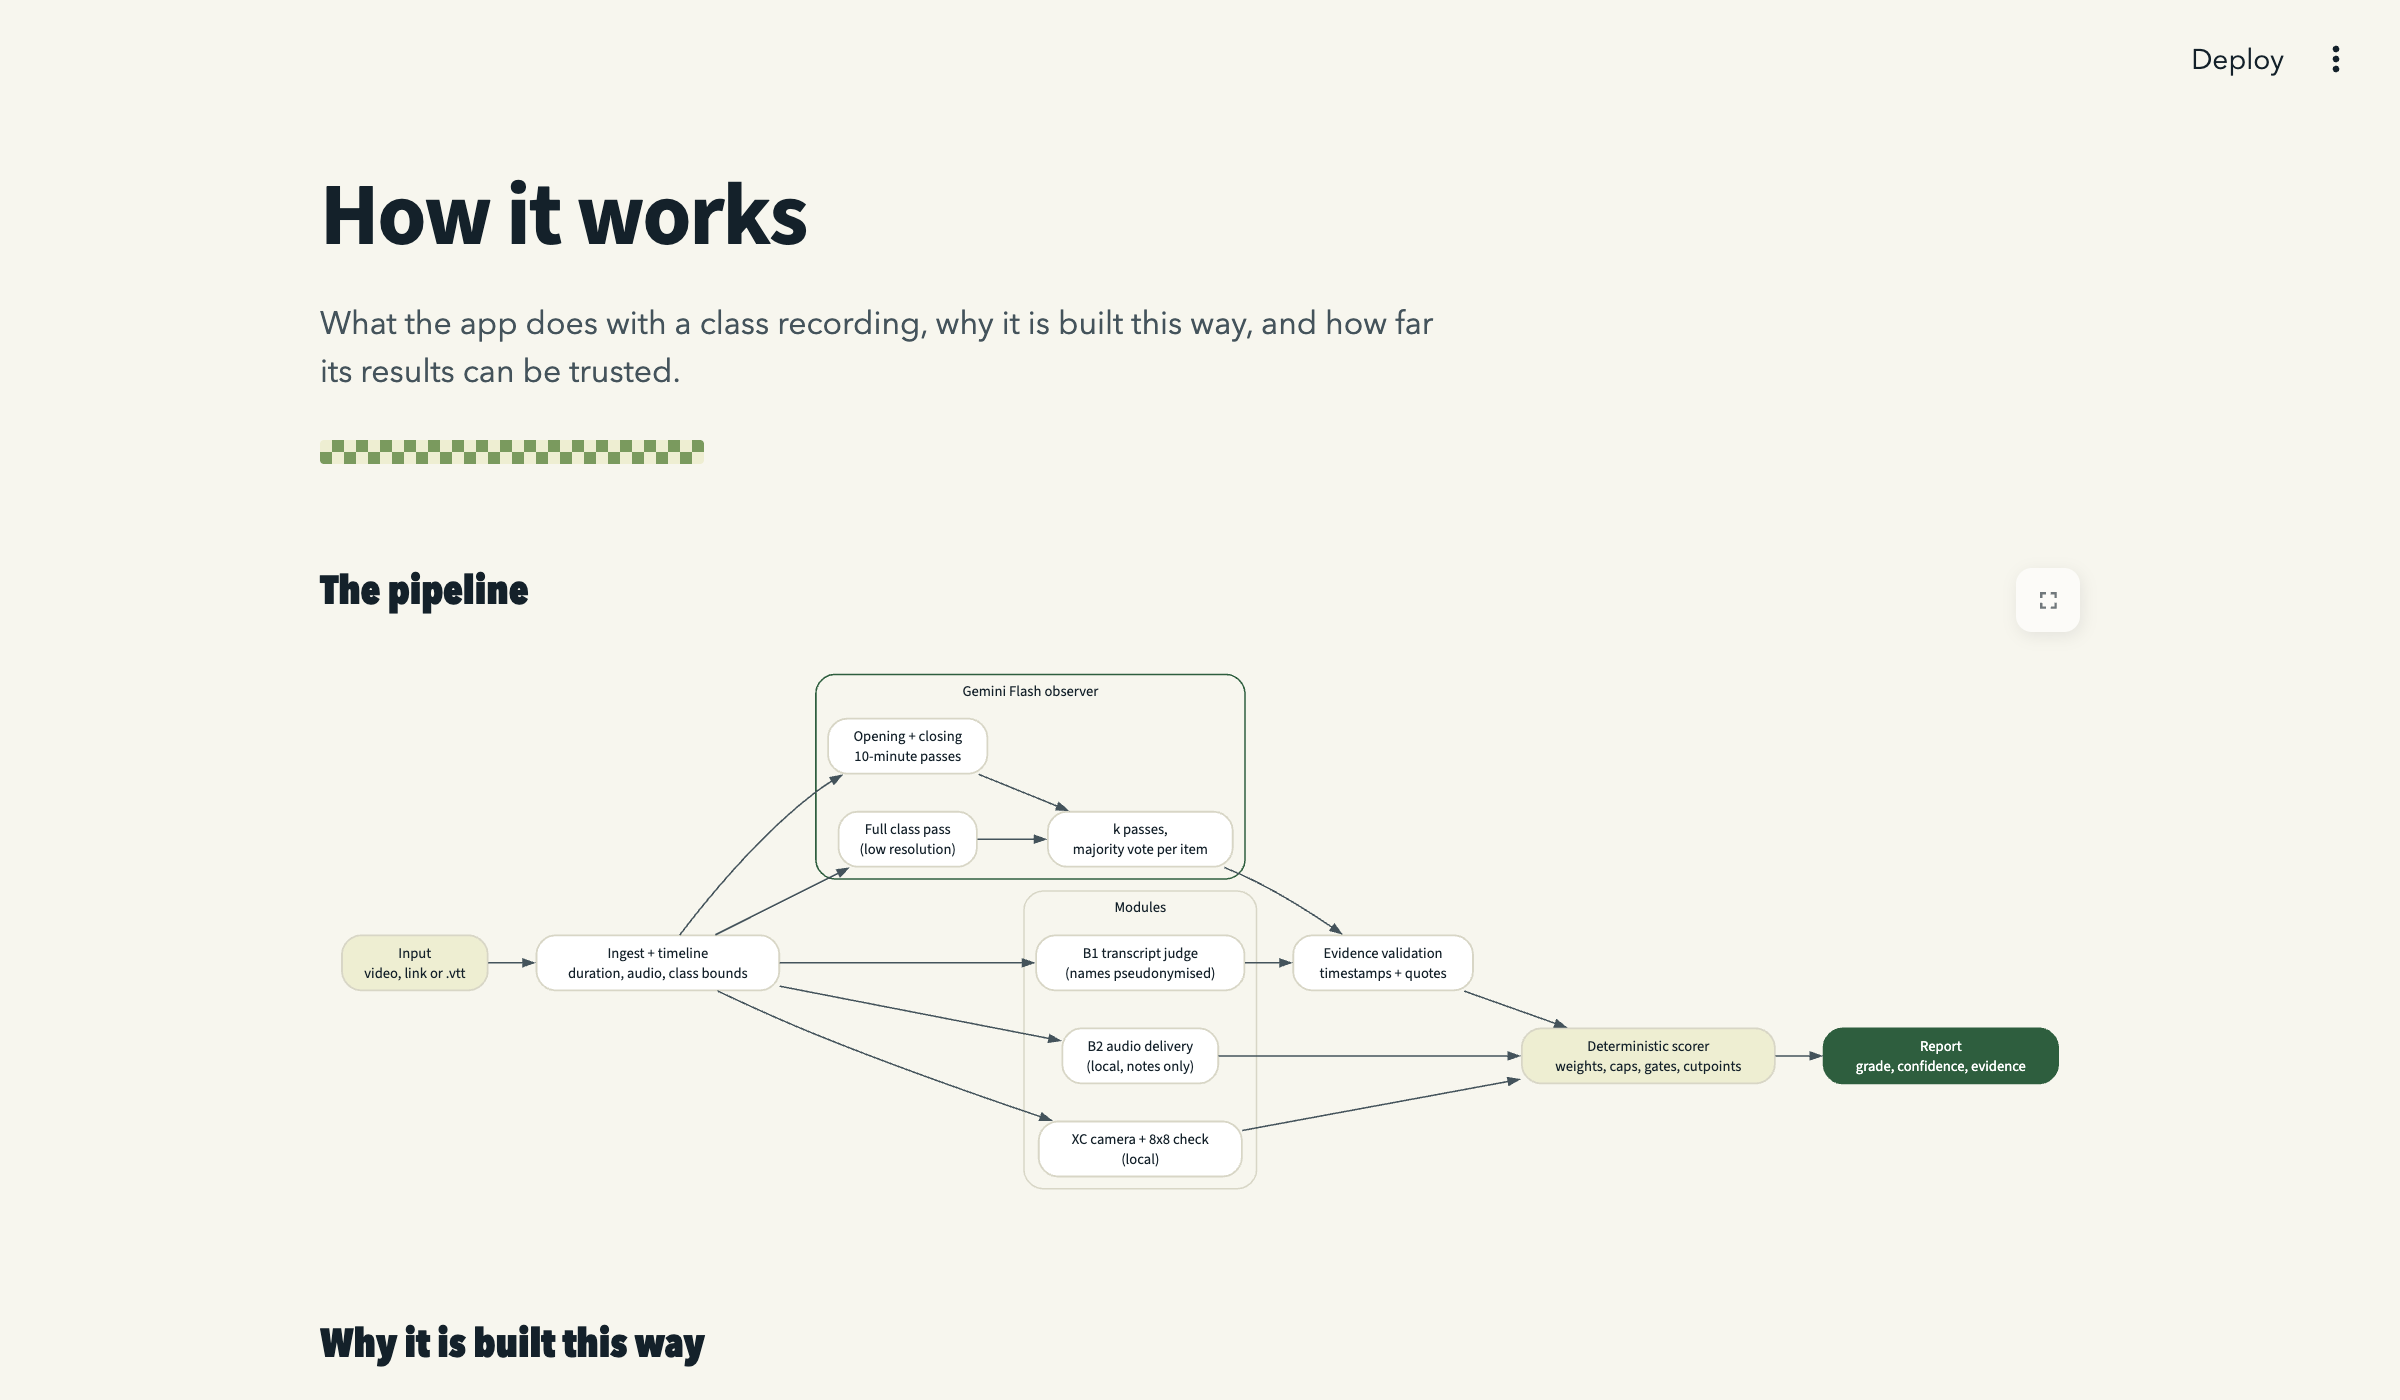
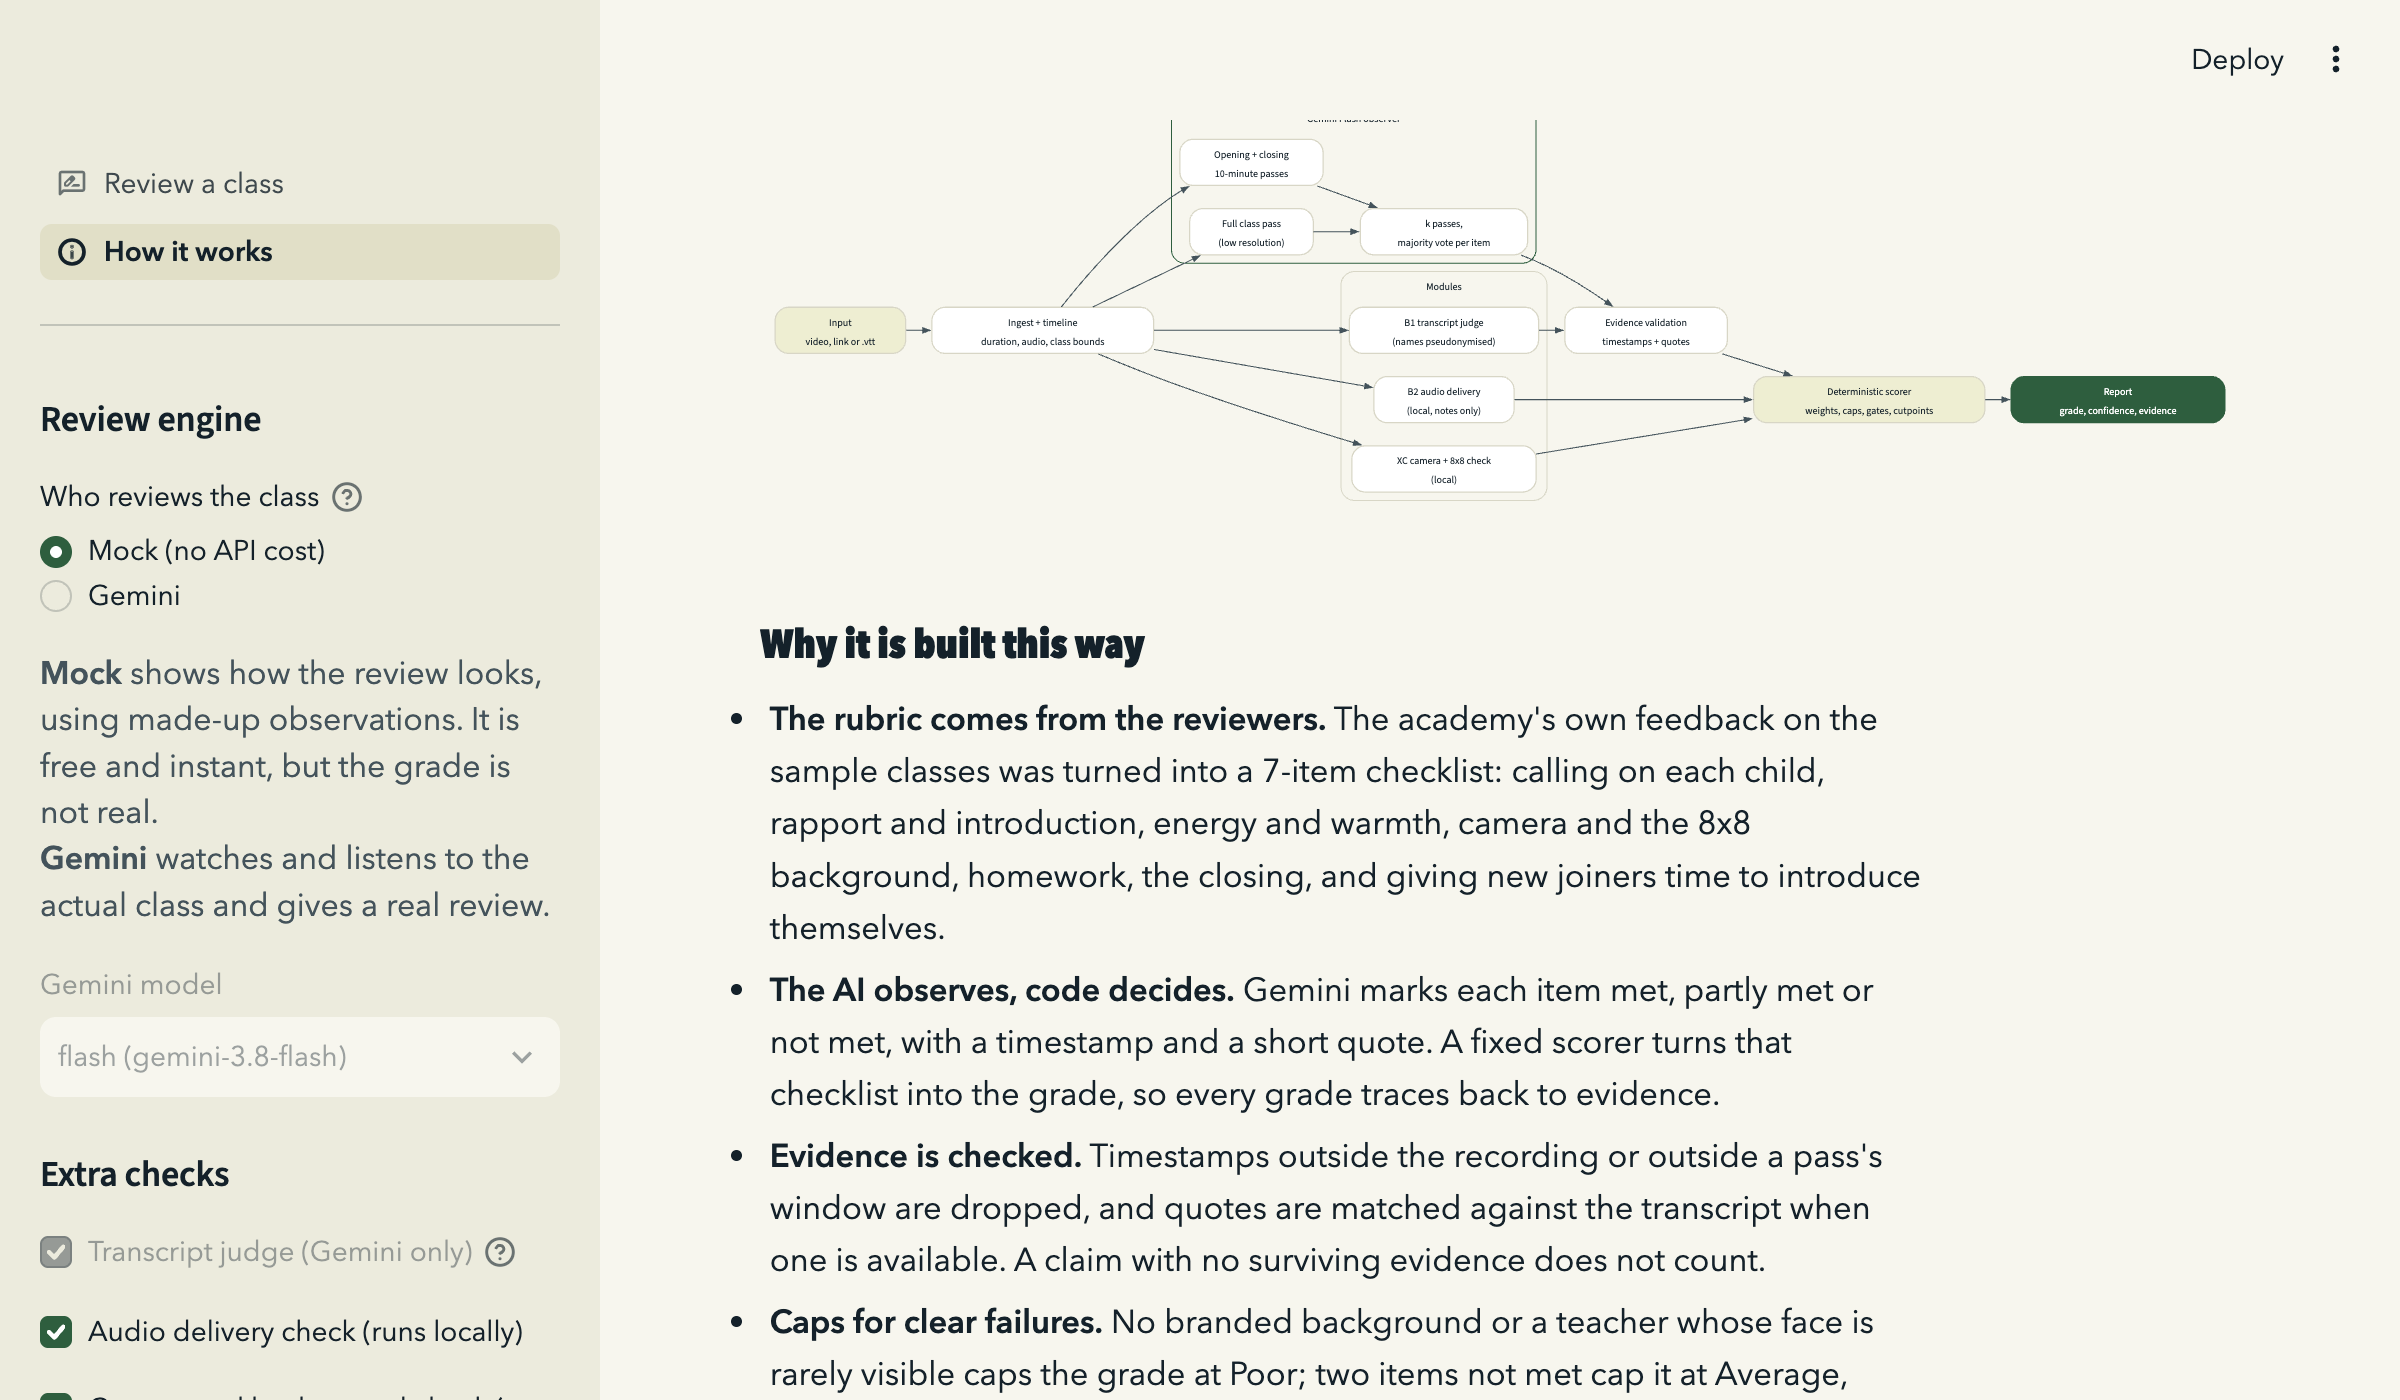
fix(ui): board corner behind content, larger diagram text, views/ dir so the shared sidebar shows on every page, working back button; refresh README screenshots
Claude-Session: https://claude.ai/code/session_01Mkqdj72oJ6saLJ2f8nxmmQ

diff --git a/app/views/how_it_works.py b/app/views/how_it_works.py
@@ -16,14 +16,14 @@ P = TOKENS["light"]
 
 DIAGRAM = f"""
 digraph G {{
-  rankdir=LR; bgcolor="transparent"; pad=0.2; nodesep=0.35; ranksep=0.45;
-  node [shape=box, style="rounded,filled", fontname="Helvetica", fontsize=11, color="{P['line']}",
+  rankdir=LR; bgcolor="transparent"; pad=0.2; nodesep=0.3; ranksep=0.35;
+  node [shape=box, style="rounded,filled", fontname="Helvetica", fontsize=15, color="{P['line']}",
         fillcolor="{P['surface']}", fontcolor="{P['ink']}", penwidth=1.2];
   edge [color="{P['muted']}", arrowsize=0.7];
   input [label="Input\\nvideo, link or .vtt", fillcolor="{P['board-light']}"];
   ingest [label="Ingest + timeline\\nduration, audio, class bounds"];
   subgraph cluster_core {{
-    label="Gemini Flash observer"; fontname="Helvetica"; fontsize=11; fontcolor="{P['ink']}";
+    label="Gemini Flash observer"; fontname="Helvetica"; fontsize=15; fontcolor="{P['ink']}";
     color="{P['met']}"; style="rounded";
     main [label="Full class pass\\n(low resolution)"];
     focus [label="Opening + closing\\n10-minute passes"];
@@ -31,7 +31,7 @@ digraph G {{
     main -> vote; focus -> vote;
   }}
   subgraph cluster_mod {{
-    label="Modules"; fontname="Helvetica"; fontsize=11; fontcolor="{P['ink']}"; color="{P['line']}"; style="rounded";
+    label="Modules"; fontname="Helvetica"; fontsize=15; fontcolor="{P['ink']}"; color="{P['line']}"; style="rounded";
     b1 [label="B1 transcript judge\\n(names pseudonymised)"];
     b2 [label="B2 audio delivery\\n(local, notes only)"];
     xc [label="XC camera + 8x8 check\\n(local)"];
@@ -52,7 +52,8 @@ def section(title: str, body_html: str) -> None:
 def main() -> None:
     pages = st.session_state.get("_pages")
     if pages:  # run inside the app's navigation (normal case)
-        st.page_link(pages["review"], label="← Back to the review")
+        if st.button("← Back to the review", type="tertiary"):
+            st.switch_page(pages["review"])
     else:  # run standalone
         st.markdown(theme_css(), unsafe_allow_html=True)
     st.markdown('<h1 class="cq-h1">How it works</h1>'

diff --git a/app/theme.py b/app/theme.py
@@ -39,7 +39,8 @@ html, body, [class*="css"], .stMarkdown, p, li, label{
 .cq-section{ font-size:1.25rem; font-weight:800; color:var(--ink); margin:1.8rem 0 .5rem 0; }
 .cq-hero{ position:relative; overflow:hidden; display:grid; grid-template-columns:auto 1fr; align-items:center; gap:1rem 2rem; padding:1.2rem 1.4rem; margin:.4rem 0 .6rem 0;
   background:var(--surface); border:1px solid var(--line); border-left:10px solid var(--g); border-radius:6px; }
-.cq-hero::after{ content:""; position:absolute; left:10px; bottom:0; width:72px; height:48px; opacity:.18; pointer-events:none;
+.cq-hero > *{ position:relative; z-index:1; }
+.cq-hero::after{ content:""; position:absolute; z-index:0; left:10px; bottom:0; width:72px; height:48px; opacity:.18; pointer-events:none;
   background:repeating-conic-gradient(var(--board-dark) 0 25%%, transparent 0 50%%) 0 0/24px 24px; }
 .cq-grade{ font-size:3.6rem; font-weight:900; line-height:1; color:var(--g); }
 .cq-piece{ font-size:3.4rem; line-height:1; color:var(--g); }

diff --git a/tests/test_app.py b/tests/test_app.py
@@ -130,7 +130,7 @@ def test_single_forced_chess_light_theme():
 def test_how_it_works_page_renders():
     at = st_testing.AppTest.from_file(APP, default_timeout=30)
     at.run()
-    at.switch_page("pages/how_it_works.py").run()
+    at.switch_page("views/how_it_works.py").run()
     assert not at.exception
     text = " ".join(m.value for m in at.markdown)
     for heading in ("How it works", "Why it is built this way", "What we tried and dropped", "How it is evaluated",
@@ -151,7 +151,7 @@ def test_sidebar_settings_persist_across_pages():
     at = st_testing.AppTest.from_file(APP, default_timeout=30)
     at.run()
     next(c for c in at.checkbox if c.label.startswith("Audio delivery")).uncheck().run()
-    at.switch_page("pages/how_it_works.py").run()
+    at.switch_page("views/how_it_works.py").run()
     assert not at.exception
     assert at.session_state["cfg"]["b2"] is False  # same sidebar settings carried to the other page
     assert at.session_state["cfg"]["b2"] is False

diff --git a/app/streamlit_app.py b/app/streamlit_app.py
@@ -322,7 +322,7 @@ def main() -> None:
     st.set_page_config(page_title="Class review", page_icon="\u265e", layout="wide")
     st.markdown(theme_css(), unsafe_allow_html=True)
     review = st.Page(review_page, title="Review a class", icon=":material/rate_review:", default=True)
-    how = st.Page(str(Path(__file__).resolve().parent / "pages" / "how_it_works.py"), title="How it works",
+    how = st.Page(str(Path(__file__).resolve().parent / "views" / "how_it_works.py"), title="How it works",
                   icon=":material/info:", url_path="how_it_works")
     st.session_state["_pages"] = {"review": review, "how": how}
     nav = st.navigation([review, how], position="sidebar")
